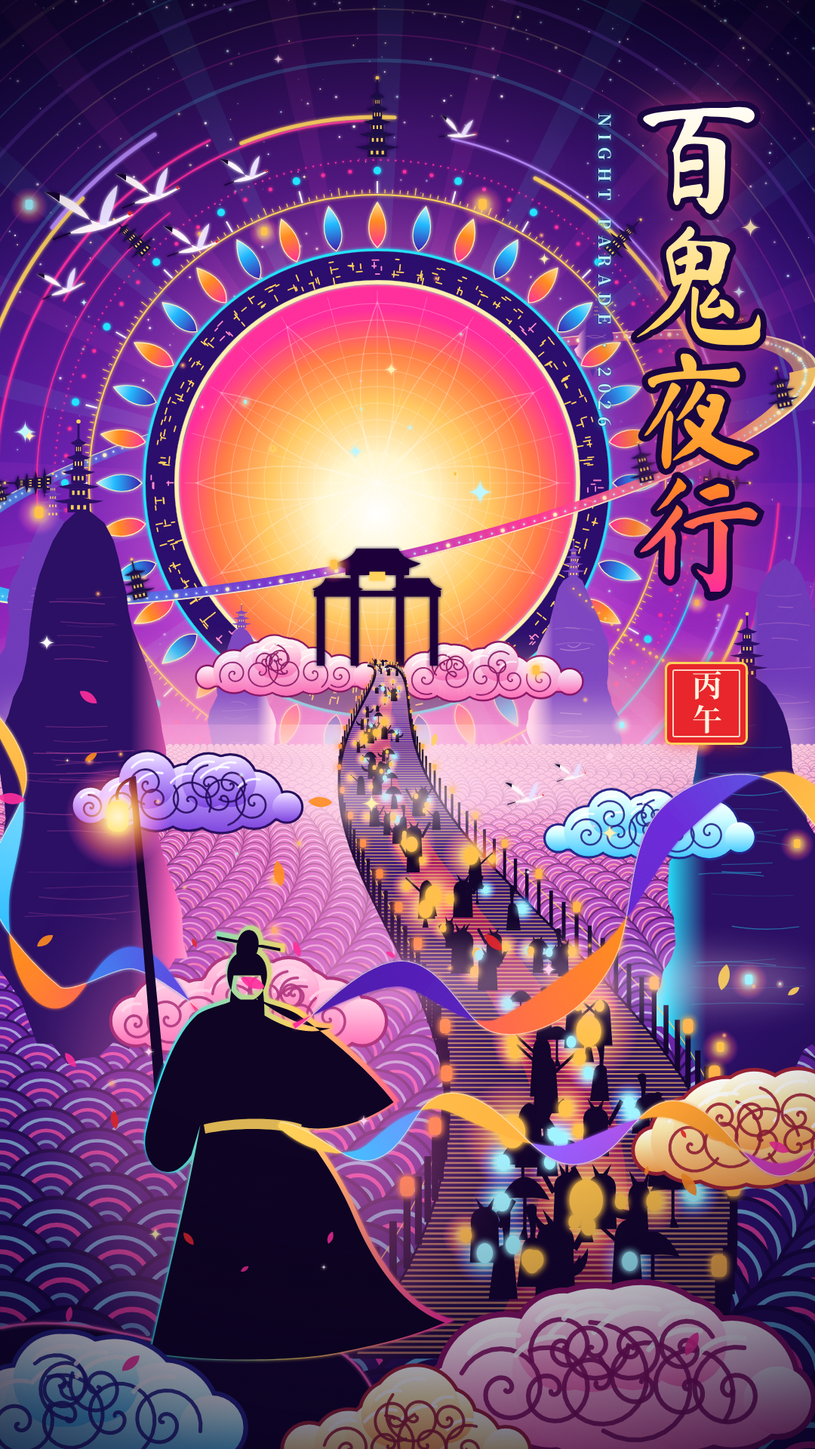
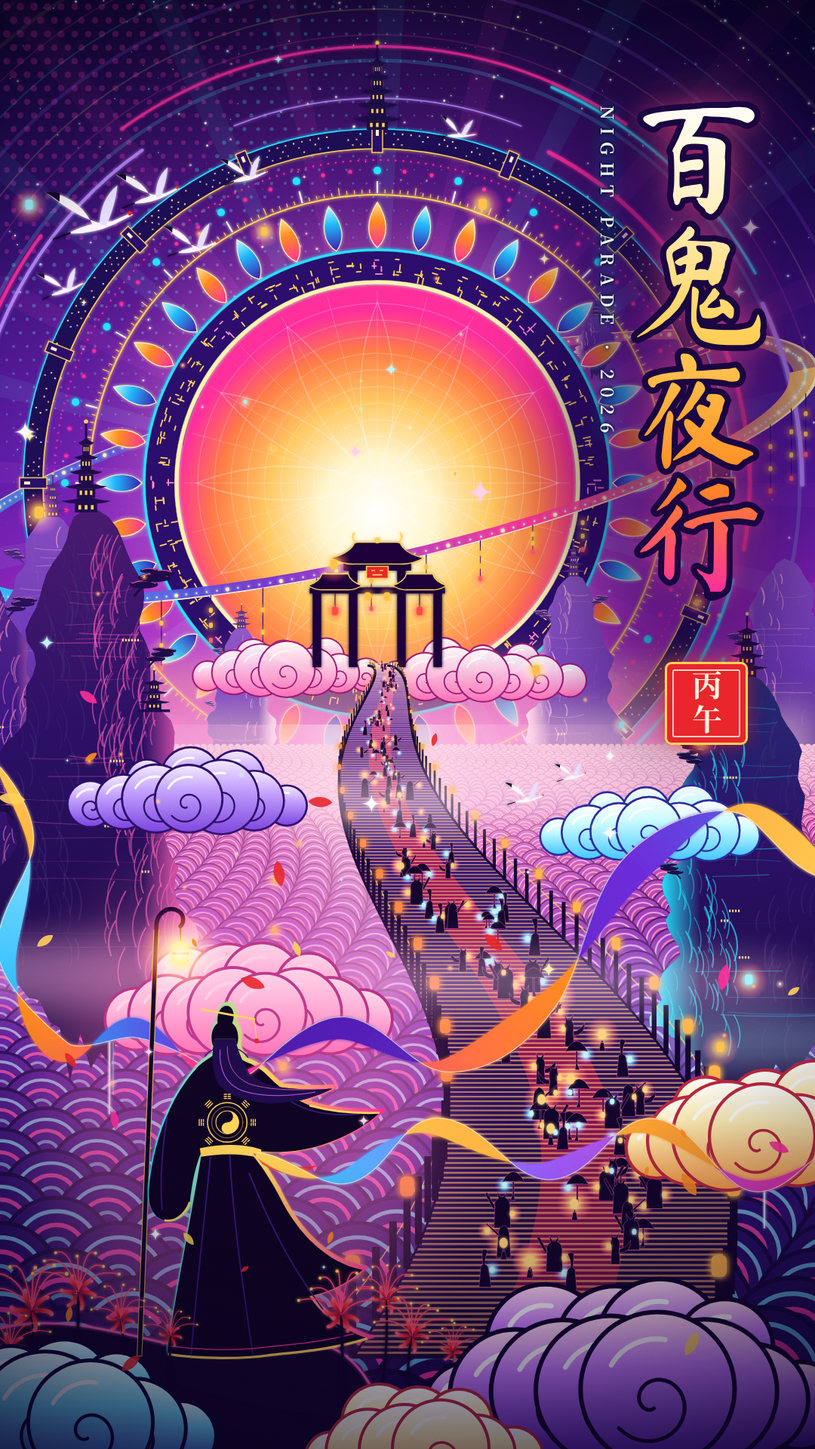
Style frame A: xianxia megastructure × hyper-colour (final)
Claude-Session: https://claude.ai/code/session_01V7Ed6gmCF8RWpr18cPyGXr

diff --git a/styleframes/a_xianxia/frame.html b/styleframes/a_xianxia/frame.html
@@ -16,8 +16,8 @@ html,body{margin:0;padding:0;width:1080px;height:1920px;overflow:hidden;backgrou
   text-shadow:0 0 30px rgba(255,46,154,.85),0 0 70px rgba(255,138,31,.55),0 0 120px rgba(107,43,217,.7)}
 .title.front{background:linear-gradient(180deg,#FFFFFF 0%,#FFF1C2 22%,#FFD25A 48%,#FF8A1F 78%,#FF2E9A 100%);
   -webkit-background-clip:text;background-clip:text;color:transparent}
-.latin{position:absolute;right:262px;top:150px;writing-mode:vertical-rl;font-family:'Noto Serif SC',serif;font-weight:700;
-  font-size:22px;letter-spacing:.42em;color:#BFF7FF;text-shadow:0 0 10px rgba(34,228,255,.9),0 0 2px #0B0326}
+.latin{position:absolute;right:258px;top:140px;writing-mode:vertical-rl;font-family:"Noto Serif SC",serif;font-weight:700;
+  font-size:23px;letter-spacing:.42em;color:#E9FDFF;text-shadow:0 0 2px #0B0326,0 0 5px #0B0326,0 0 9px #1A0640,0 0 18px rgba(34,228,255,.85)}
 .seal{position:absolute;right:92px;top:880px;width:104px;height:104px;background:#E8262B;border-radius:6px;
   box-shadow:0 0 0 3px #FFD25A,0 0 24px rgba(232,38,43,.8);display:grid;grid-template-columns:1fr;place-items:center;
   font-family:'Noto Serif SC',serif;font-weight:700;color:#FFF3E0;font-size:40px;line-height:1;writing-mode:vertical-rl;
@@ -94,6 +94,8 @@ const CLOUDS={
   cyan:['#FFFFFF','#C9FBFF','#45C8FF','#2B2A9E'],
   gold:['#FFFFFF','#FFF0B5','#FFA24A','#B8283E'],
   violet:['#F3E8FF','#C6A4FF','#7A45E0','#2A0E6A'],
+  deep:['#FFD6F0','#C77DFF','#4E1AA6','#12042A'],
+  deepc:['#E6FFFF','#6FE0FF','#2B3BB0','#0E0530'],
 };
 for(const k in CLOUDS){const c=CLOUDS[k];defs+=`<linearGradient id="cl_${k}" x1="0" y1="0" x2="0" y2="1"><stop offset="0" stop-color="${c[0]}"/><stop offset=".35" stop-color="${c[1]}"/><stop offset="1" stop-color="${c[2]}"/></linearGradient>`;}
 
@@ -108,6 +110,10 @@ add(`<rect width="1080" height="1920" fill="url(#sky)"/>`);
  add(`<g style="mix-blend-mode:screen">${s}</g>`);}
 // stars
 {let s='';for(let i=0;i<360;i++){const x=R(0,W),y=Math.pow(rnd(),1.6)*900;const r=R(.4,1.8);s+=`<circle cx="${f(x)}" cy="${f(y)}" r="${f(r)}" fill="${pick(['#FFFFFF','#BFF7FF','#FFE3F2','#FFF1B0'])}" opacity="${f(R(.35,1))}"/>`;}add(`<g filter="url(#glowS)">${s}</g>`);}
+// halftone print texture, top-left corner
+{let s='';const step=18;for(let y=step/2;y<760;y+=step)for(let x=step/2;x<640;x+=step){const xx=x+((y/step|0)%2)*step/2;const d=Math.hypot(xx,y)/760;const r=(1-d)*5.2;if(r<.4)continue;
+  s+=`<circle cx="${f(xx)}" cy="${f(y)}" r="${f(r)}" fill="${d<.45?'#FF2E9A':'#22E4FF'}"/>`;}
+ add(`<g opacity=".28" style="mix-blend-mode:screen">${s}</g>`);}
 // halo
 add(`<circle cx="${CX}" cy="${CY}" r="900" fill="url(#halo)" style="mix-blend-mode:screen"/>`);
 
@@ -124,10 +130,16 @@ function orbitDetails(half){
   const {cx,cy,rx,ry,rot}=ORB;let s='';const n=120;
   for(let i=0;i<n;i++){const t=(half=='back'?Math.PI:0)+(i+.5)/n*Math.PI;const x=cx+(rx-18)*Math.cos(t),y=cy+(ry-6)*Math.sin(t);
     s+=`<circle cx="${f(x)}" cy="${f(y)}" r="${i%5==0?2.6:1.3}" fill="${i%5==0?'#FFF4C0':'#BFF7FF'}"/>`;}
-  // pavilions riding the ring
-  const towers=half=='back'?[1.18,1.42,1.62,1.84]:[0.12,0.3,0.7,0.88];
-  for(const tt of towers){const t=tt*Math.PI;const x=cx+(rx-14)*Math.cos(t),y=cy+(ry-4)*Math.sin(t);s+=pagoda(x,y-2,half=='back'?22:30,'#1B0844','#FFD25A',3);}
   return `<g transform="rotate(${rot} ${cx} ${cy})" filter="url(#glowS)">${s}</g>`;
+}
+function orbitPoint(t,inset=0){const {cx,cy,rx,ry,rot}=ORB;const x=cx+(rx-inset)*Math.cos(t),y=cy+(ry-inset*ry/rx)*Math.sin(t);const a=rot*Math.PI/180;
+  return [cx+(x-cx)*Math.cos(a)-(y-cy)*Math.sin(a),cy+(x-cx)*Math.sin(a)+(y-cy)*Math.cos(a)];}
+function orbitLanterns(){ // strings of lanterns hanging plumb from the front orbit
+  let s='',g='';const rr=mulberry32(808);
+  for(let i=0;i<22;i++){const t=.08*Math.PI+i/21*.84*Math.PI;const [x,y]=orbitPoint(t,6);if(x>820&&x<1020)continue;const len=30+rr()*70;
+    s+=`<line x1="${f(x)}" y1="${f(y)}" x2="${f(x)}" y2="${f(y+len)}" stroke="#2A0B6A" stroke-width="1.2"/>`;
+    for(let k=1;k<=3;k++){const yy=y+len*k/3;g+=`<rect x="${f(x-2.6)}" y="${f(yy-3.4)}" width="5.2" height="6.8" rx="2" fill="${k==3?'#FF5A6A':'#FFC14A'}"/>`;}}
+  return `<g>${s}</g><g filter="url(#glow)">${g}</g>`;
 }
 function pagoda(x,y,s,fill,light,tiers=4){
   let o='',yy=y;
@@ -145,22 +157,50 @@ add(orbitArc('back',4,'#FFF4C0','opacity=".7"'));
 add(orbitDetails('back'));
 
 // small far islands behind the ring
+function pine(x,y,s,lean,fill,rimc){ // stylised Chinese pine clinging to a ledge
+  let o=`<path d="M${f(x)},${f(y)}Q${f(x+lean*s*.4)},${f(y-s*.5)} ${f(x+lean*s*.9)},${f(y-s*.75)}" stroke="${fill}" stroke-width="${f(s*.09)}" fill="none" stroke-linecap="round"/>`;
+  const pads=[[.35,-.42,.55],[.75,-.68,.62],[1.05,-.86,.46],[.55,-.95,.34]];
+  for(const p of pads){const cx=x+lean*s*p[0],cy=y+s*p[1],rx=s*p[2],ry=s*p[2]*.28;
+    o+=`<ellipse cx="${f(cx)}" cy="${f(cy)}" rx="${f(rx)}" ry="${f(ry)}" fill="${fill}"/><path d="M${f(cx-rx*.85)},${f(cy-ry*.3)}Q${f(cx)},${f(cy-ry*1.5)} ${f(cx+rx*.85)},${f(cy-ry*.3)}" stroke="${rimc}" stroke-width="${f(Math.max(.8,s*.035))}" fill="none" opacity=".9"/>`;}
+  return o;
+}
+let ISL=0;
 function island(x,y,w,h,fill,rimc,seed,opts={}){
-  const r2=mulberry32(seed);const n=26;const left=[],right=[];
-  for(let i=0;i<=n;i++){const t=i/n;const yy=y-h*t;const base=w/2*Math.pow(Math.max(0,1-Math.pow(t,2.3)),.55)*(.78+.22*(1-t));
-    left.push([x-base*(1+.10*Math.sin(t*17+seed)+.06*(r2()-.5)),yy]);right.push([x+base*(1+.10*Math.cos(t*13+seed)+.06*(r2()-.5)),yy]);}
-  const under=[];const m=12;const dh=h*(opts.under||.42);
-  for(let i=0;i<=m;i++){const t=i/m;const xx=x+w/2*(1-2*t)*.98;const yy=y+dh*Math.pow(Math.sin(Math.PI*t),1.3)*(.6+.4*r2())*(i%2?1:.75);under.push([xx,yy]);}
-  const pts=left.concat(right.reverse()).concat(under);
+  const r2=mulberry32(seed);const n=40;const left=[],right=[];
+  const prof=t=>w/2*Math.pow(Math.max(0,1-Math.pow(t,2.4)),.5)*(.74+.26*(1-t));
+  for(let i=0;i<=n;i++){const t=i/n;const yy=y-h*t;const b=prof(t);
+    const stepL=.11*Math.sin(t*19+seed)+.07*Math.sin(t*47+seed*2)+.05*(r2()-.5);
+    const stepR=.11*Math.cos(t*15+seed)+.07*Math.sin(t*41+seed)+.05*(r2()-.5);
+    left.push([x-b*(1+stepL),yy]);right.push([x+b*(1+stepR),yy]);}
+  const under=[];const m=18;const dh=h*(opts.under||.42);
+  for(let i=0;i<=m;i++){const t=i/m;const xx=x+w/2*(1-2*t)*.98;const yy=y+dh*Math.pow(Math.sin(Math.PI*t),1.2)*(.55+.45*r2())*(i%2?1:.7);under.push([xx,yy]);}
+  const pts=left.concat(right.slice().reverse()).concat(under);
   const d='M'+pts.map(p=>f(p[0])+','+f(p[1])).join('L')+'Z';
-  const gid='ig'+seed;
-  defs+=`<linearGradient id="${gid}" x1="${opts.rimLeft?1:0}" y1="0" x2="${opts.rimLeft?0:1}" y2="0"><stop offset="0" stop-color="${fill}"/><stop offset=".72" stop-color="${fill}"/><stop offset=".93" stop-color="${rimc}"/><stop offset="1" stop-color="${mix(rimc,'#FFFFFF',.5)}"/></linearGradient>`;
-  let o=`<path d="${d}" fill="url(#${gid})"/>`;
-  // strata lines
-  for(let k=0;k<Math.floor(h/24);k++){const t=r2()*.85;const yy=y-h*t;const half=w/2*Math.pow(Math.max(0,1-Math.pow(t,2.3)),.55)*.8;const x0=x-half*R(.2,.9),x1=x+half*R(.2,.9);
-    o+=`<path d="M${f(x0)},${f(yy)}Q${f((x0+x1)/2)},${f(yy+R(-6,8))} ${f(x1)},${f(yy+R(-4,4))}" stroke="${rimc}" stroke-width="${f(R(.6,1.6))}" fill="none" opacity="${f(R(.15,.4))}"/>`;}
-  if(opts.temple){o+=pagoda(x+(opts.templeDx||0),y-h*.985+ (opts.templeDy||0),opts.temple,fill,'#FFD25A',opts.tiers||4);}
-  if(opts.fall){o+=`<path d="M${f(x+w*.12)},${f(y+dh*.5)}L${f(x+w*.12)},${f(y+dh*.5+opts.fall)}" stroke="#E8FDFF" stroke-width="2.4" opacity=".75" filter="url(#glowS)"/>`;}
+  const id='is'+(ISL++);
+  const lit=opts.rimLeft?-1:1;
+  defs+=`<linearGradient id="${id}v" x1="0" y1="0" x2="0" y2="1"><stop offset="0" stop-color="${mix(fill,rimc,opts.topMix||.14)}"/><stop offset=".4" stop-color="${fill}"/><stop offset="1" stop-color="${mix(fill,'#05010F',.45)}"/></linearGradient>
+    <linearGradient id="${id}h" x1="${lit<0?1:0}" y1="0" x2="${lit<0?0:1}" y2="0"><stop offset="0" stop-color="${rimc}" stop-opacity="0"/><stop offset=".74" stop-color="${rimc}" stop-opacity="0"/><stop offset=".92" stop-color="${rimc}" stop-opacity=".9"/><stop offset="1" stop-color="${mix(rimc,'#FFFFFF',.55)}" stop-opacity="1"/></linearGradient>
+    <clipPath id="${id}c"><path d="${d}"/></clipPath>`;
+  let o=`<path d="${d}" fill="url(#${id}v)"/><path d="${d}" fill="url(#${id}h)"/>`;
+  // 皴 texture strokes, denser and brighter on the lit flank
+  let tex='';const nt=Math.floor(h*w/900)+20;
+  for(let k=0;k<nt;k++){const t=r2()*.95;const yy=y-h*t;const side=r2()<.62?lit:-lit;const b=prof(t);const px=x+side*b*(.15+r2()*.85);
+    const L=Math.max(8,h*.07)*(.6+r2());const bend=side*-L*.3;
+    tex+=`<path d="M${f(px)},${f(yy)}q${f(bend)},${f(L*.5)} ${f(bend*.4)},${f(L)}" stroke="${side==lit?rimc:mix(fill,'#FFFFFF',.18)}" stroke-width="${f(Math.max(.7,w*.005+r2()*1.1))}" fill="none" opacity="${f(side==lit?.3+r2()*.45:.14+r2()*.18)}" stroke-linecap="round"/>`;}
+  // horizontal strata
+  for(let k=0;k<Math.floor(h/30);k++){const t=r2()*.9;const yy=y-h*t;const b=prof(t);const x0=x-b*(.2+r2()*.8),x1=x+b*(.2+r2()*.8);
+    tex+=`<path d="M${f(x0)},${f(yy)}Q${f((x0+x1)/2)},${f(yy+(r2()-.3)*10)} ${f(x1)},${f(yy+(r2()-.5)*6)}" stroke="${rimc}" stroke-width="${f(.6+r2())}" fill="none" opacity="${f(.12+r2()*.25)}"/>`;}
+  // lit cliff windows
+  if(opts.windows){for(let k=0;k<opts.windows;k++){const t=.15+r2()*.6;const b=prof(t);const px=x+lit*b*(r2()*.8),py=y-h*t;
+    for(let j=0;j<3+Math.floor(r2()*4);j++)tex+=`<rect x="${f(px+j*4)}" y="${f(py)}" width="2.2" height="3.2" fill="#FFD98A"/>`;}}
+  o+=`<g clip-path="url(#${id}c)">${tex}</g>`;
+  // pines on ledges
+  if(opts.pines){for(let k=0;k<opts.pines;k++){const t=.25+r2()*.6;const side=r2()<.5?-1:1;const b=prof(t);
+    o+=pine(x+side*b*.92,y-h*t,Math.max(10,w*.12)*(.7+r2()*.5),side,mix(fill,'#05010F',.35),rimc);}}
+  if(opts.temple){o+=pagoda(x+(opts.templeDx||0),y-h*.985+(opts.templeDy||0),opts.temple,mix(fill,'#05010F',.3),'#FFD25A',opts.tiers||4);}
+  if(opts.side){const t=opts.side[0];const b=prof(t);const px=x+lit*b*.9,py=y-h*t;
+    o+=`<rect x="${f(px-opts.side[1]*.7)}" y="${f(py)}" width="${f(opts.side[1]*1.4)}" height="${f(opts.side[1]*.12)}" fill="${mix(fill,'#05010F',.3)}"/>`+pagoda(px,py,opts.side[1],mix(fill,'#05010F',.3),'#FFD25A',3);}
+  if(opts.fall){const fx=x+w*.1;o+=`<g filter="url(#glowS)"><path d="M${f(fx)},${f(y+dh*.45)}L${f(fx)},${f(y+dh*.45+opts.fall)}" stroke="#E8FDFF" stroke-width="2.6" opacity=".8"/><path d="M${f(fx+5)},${f(y+dh*.5)}L${f(fx+5)},${f(y+dh*.5+opts.fall*.7)}" stroke="#9FF4FF" stroke-width="1.2" opacity=".6"/></g>`;}
   return o;
 }
 add(island(250,560,70,70,'#5A2A9E','#FFB3D9',11,{under:.6,temple:16,tiers:3}));
@@ -208,13 +248,14 @@ add(`<circle cx="${CX}" cy="${CY}" r="262" fill="url(#core)"/>`);
 add(orbitArc('front',40,'url(#orbitBand)','opacity=".92"'));
 add(orbitArc('front',5,'#FFF4C0','opacity=".95"'));
 add(orbitDetails('front'));
+add(orbitLanterns());
 
 /* ---------------- far mountains ---------------- */
 add(`<rect x="0" y="880" width="1080" height="240" fill="url(#seaGlow)" opacity=".7" filter="url(#blur24)"/>`);
-add(island(70,1010,170,330,'#6E3AB8','#FFB3D9',21,{under:.25,temple:26}));
-add(island(320,1000,90,170,'#7C46C0','#FFC9E4',22,{under:.3,temple:18,tiers:3}));
-add(island(760,1010,120,250,'#7C46C0','#FFC9E4',23,{under:.3,temple:22,rimLeft:1}));
-add(island(1040,1020,150,280,'#6E3AB8','#FFB3D9',24,{under:.25,rimLeft:1}));
+add(island(70,1010,170,330,'#6E3AB8','#FFB3D9',21,{under:.25,temple:26,pines:3,windows:3}));
+add(island(320,1000,90,170,'#7C46C0','#FFC9E4',22,{under:.3,temple:18,tiers:3,pines:2}));
+add(island(760,1010,120,250,'#7C46C0','#FFC9E4',23,{under:.3,temple:22,rimLeft:1,pines:2,windows:2}));
+add(island(1040,1020,150,280,'#6E3AB8','#FFB3D9',24,{under:.25,rimLeft:1,pines:2}));
 
 /* ---------------- cloud sea (perspective seigaiha) ---------------- */
 {let s='';let y=990;let row=0;
@@ -237,21 +278,29 @@ add(island(1040,1020,150,280,'#6E3AB8','#FFB3D9',24,{under:.25,rimLeft:1}));
 
 /* ---------------- 祥云 cloud clusters ---------------- */
 function cloud(cx,cy,len,size,kind,opts={}){
-  const r2=mulberry32(Math.floor(cx*7+cy*13));const n=opts.n||7;const lobes=[];
-  for(let i=0;i<n;i++){const t=n==1?.5:i/(n-1);const r=size*(.45+.55*Math.pow(Math.sin(Math.PI*t),.8))*(.8+.35*r2());
-    lobes.push([cx+(t-.5)*len,cy-r*.55,r]);}
-  for(let i=0;i<Math.floor(n/2);i++){const t=.2+.6*r2();const r=size*(.5+.35*r2());lobes.push([cx+(t-.5)*len*.8,cy-size*.75-r*.3,r]);}
-  const outline=opts.outline||mix(CLOUDS[kind][3],'#000000',.15);const lw=opts.lw||Math.max(2,size*.07);
-  const bottom=`<rect x="${f(cx-len/2-size*.3)}" y="${f(cy-size*.35)}" width="${f(len+size*.6)}" height="${f(size*.45)}" rx="${f(size*.22)}"`;
+  const r2=mulberry32(Math.floor(cx*7+cy*13)+(opts.seed||0));const n=opts.n||7;const back=[],front=[];
+  for(let i=0;i<n;i++){const t=n==1?.5:i/(n-1);const r=size*(.42+.58*Math.pow(Math.sin(Math.PI*(.08+.84*t)),.9))*(.85+.25*r2());
+    front.push([cx+(t-.5)*len,cy-r*.5,r]);}
+  const nb=Math.max(1,Math.floor(n/2));
+  for(let i=0;i<nb;i++){const t=(i+.5)/nb;const r=size*(.55+.3*r2());back.push([cx+(t-.5)*len*.7+(r2()-.5)*size*.3,cy-size*.8-r*.35,r]);}
+  const outline=opts.outline||CLOUDS[kind][3];const lw=opts.lw||Math.max(1.6,size*.06);
   let o='';
-  o+=lobes.map(l=>`<circle cx="${f(l[0])}" cy="${f(l[1])}" r="${f(l[2]+lw)}" fill="${outline}"/>`).join('')+bottom+` fill="${outline}" transform="translate(0 ${f(lw)})"/>`;
-  o+=bottom+` fill="${CLOUDS[kind][2]}"/>`;
-  o+=lobes.map(l=>`<circle cx="${f(l[0])}" cy="${f(l[1])}" r="${f(l[2])}" fill="url(#cl_${kind})"/>`).join('');
-  // spirals
-  for(const l of lobes){if(l[2]<size*.5)continue;const dir=l[0]<cx?-1:1;let d='';const m=46;const turns=1.6;const a0=r2()*6.28;
-    for(let i=0;i<=m;i++){const t=i/m;const a=a0+dir*t*turns*Math.PI*2;const rr=l[2]*.72*t;d+=(i?'L':'M')+f(l[0]+rr*Math.cos(a))+','+f(l[1]+l[2]*.12+rr*Math.sin(a));}
-    o+=`<path d="${d}" fill="none" stroke="${outline}" stroke-width="${f(lw*.8)}" stroke-linecap="round" opacity=".9"/>`;
-    o+=`<path d="M${f(l[0]-l[2]*.55)},${f(l[1]-l[2]*.45)}A${f(l[2]*.75)},${f(l[2]*.75)} 0 0 1 ${f(l[0]+l[2]*.2)},${f(l[1]-l[2]*.72)}" fill="none" stroke="#FFFFFF" stroke-width="${f(lw*.9)}" stroke-linecap="round" opacity=".85"/>`;}
+  // flat base
+  const bx=cx-len/2-size*.25,bw=len+size*.5,by=cy-size*.32,bh=size*.4;
+  o+=`<rect x="${f(bx-lw)}" y="${f(by-lw)}" width="${f(bw+2*lw)}" height="${f(bh+2*lw)}" rx="${f(bh/2+lw)}" fill="${outline}"/><rect x="${f(bx)}" y="${f(by)}" width="${f(bw)}" height="${f(bh)}" rx="${f(bh/2)}" fill="${CLOUDS[kind][2]}"/>`;
+  const lobe=(l,curl)=>{const [x,y,r]=l;let q=`<circle cx="${f(x)}" cy="${f(y)}" r="${f(r+lw)}" fill="${outline}"/><circle cx="${f(x)}" cy="${f(y)}" r="${f(r)}" fill="url(#cl_${kind})"/>`;
+    // highlight sweep
+    q+=`<path d="M${f(x-r*.62)},${f(y-r*.32)}A${f(r*.7)},${f(r*.7)} 0 0 1 ${f(x+r*.1)},${f(y-r*.66)}" fill="none" stroke="#FFFFFF" stroke-width="${f(lw*1.1)}" stroke-linecap="round" opacity=".9"/>`;
+    if(curl){ // one clean ruyi curl per lobe
+      const dir=x<cx?1:-1;let d='';const m=40;const turns=1.15;const a0=Math.PI*.5;
+      const ox=x+dir*r*.05,oy=y+r*.18;
+      for(let i=0;i<=m;i++){const t=i/m;const a=a0-dir*t*turns*Math.PI*2;const rr=r*.08+r*.5*t;d+=(i?'L':'M')+f(ox+rr*Math.cos(a))+','+f(oy+rr*Math.sin(a));}
+      q+=`<path d="${d}" fill="none" stroke="${outline}" stroke-width="${f(lw*.85)}" stroke-linecap="round"/>`;}
+    return q;};
+  for(const l of back)o+=lobe(l,false);
+  // front lobes: draw from the ends inward so the centre lobe sits on top
+  const order=front.map((l,i)=>[l,Math.abs(i-(n-1)/2)]).sort((a,b)=>b[1]-a[1]);
+  for(const [l,dc] of order)o+=lobe(l,l[2]>size*.62);
   return `<g ${opts.attr||''}>${o}</g>`;
 }
 
@@ -264,22 +313,28 @@ function gate(x,y,s){ // y = base
   const ink='#1A0638';let o='';
   const px=[-.5,-.2,.2,.5];
   for(const p of px){const h=p*p>.1?.62:.82;o+=`<rect x="${f(x+p*s-s*.035)}" y="${f(y-s*h)}" width="${f(s*.07)}" height="${f(s*h)}" fill="${ink}"/>`;}
-  const roof=(cx,cy,w,h)=>`<path d="M${f(cx-w*.62)},${f(cy-h*.1)}Q${f(cx-w*.45)},${f(cy+h*.15)} ${f(cx-w*.3)},${f(cy+h*.12)}L${f(cx+w*.3)},${f(cy+h*.12)}Q${f(cx+w*.45)},${f(cy+h*.15)} ${f(cx+w*.62)},${f(cy-h*.1)}Q${f(cx+w*.35)},${f(cy-h*.3)} ${f(cx+w*.3)},${f(cy-h*.7)}L${f(cx-w*.3)},${f(cy-h*.7)}Q${f(cx-w*.35)},${f(cy-h*.3)} ${f(cx-w*.62)},${f(cy-h*.1)}Z" fill="${ink}"/>`;
+  const roof=(cx,cy,w,h)=>`<path d="M${f(cx-w*.62)},${f(cy-h*.1)}Q${f(cx-w*.45)},${f(cy+h*.15)} ${f(cx-w*.3)},${f(cy+h*.12)}L${f(cx+w*.3)},${f(cy+h*.12)}Q${f(cx+w*.45)},${f(cy+h*.15)} ${f(cx+w*.62)},${f(cy-h*.1)}Q${f(cx+w*.35)},${f(cy-h*.3)} ${f(cx+w*.3)},${f(cy-h*.7)}L${f(cx-w*.3)},${f(cy-h*.7)}Q${f(cx-w*.35)},${f(cy-h*.3)} ${f(cx-w*.62)},${f(cy-h*.1)}Z" fill="${ink}" stroke="#FFD25A" stroke-width="1.3" stroke-linejoin="round"/>`;
   o+=`<rect x="${f(x-s*.56)}" y="${f(y-s*.66)}" width="${f(s*1.12)}" height="${f(s*.05)}" fill="${ink}"/>`;
   o+=`<rect x="${f(x-s*.28)}" y="${f(y-s*.88)}" width="${f(s*.56)}" height="${f(s*.08)}" fill="${ink}"/>`;
   o+=roof(x,y-s*.88,s*.62,s*.22)+roof(x-s*.35,y-s*.66,s*.36,s*.16)+roof(x+s*.35,y-s*.66,s*.36,s*.16);
-  o+=`<rect x="${f(x-s*.07)}" y="${f(y-s*.83)}" width="${f(s*.14)}" height="${f(s*.08)}" fill="#FFD25A"/>`;
-  return `<g filter="url(#glowS)">${o}</g>`;
+  o+=`<rect x="${f(x-s*.09)}" y="${f(y-s*.835)}" width="${f(s*.18)}" height="${f(s*.1)}" fill="#E8262B" stroke="#FFD25A" stroke-width="1.5"/>`;
+  o+=`<path d="M${f(x-s*.05)},${f(y-s*.80)}h${f(s*.03)}M${f(x+s*.02)},${f(y-s*.80)}h${f(s*.03)}M${f(x-s*.04)},${f(y-s*.765)}h${f(s*.08)}" stroke="#FFD25A" stroke-width="1.6"/>`;
+  // ridge finials
+  for(const sx of [-1,1])o+=`<path d="M${f(x+sx*s*.18)},${f(y-s*1.03)}q${f(sx*s*.04)},${f(-s*.05)} ${f(sx*s*.01)},${f(-s*.08)}" stroke="#FFD25A" stroke-width="2" fill="none" stroke-linecap="round"/>`;
+  o+=`<circle cx="${f(x)}" cy="${f(y-s*1.05)}" r="${f(s*.025)}" fill="#FFD25A"/>`;
+  // lanterns hanging under the beam
+  let g='';for(const p of [-.35,.35,-.08,.08]){const lx=x+p*s,ly=y-s*(Math.abs(p)>.2?.5:.62);
+    o+=`<line x1="${f(lx)}" y1="${f(y-s*(Math.abs(p)>.2?.61:.66))}" x2="${f(lx)}" y2="${f(ly)}" stroke="${ink}" stroke-width="1"/>`;
+    g+=`<rect x="${f(lx-s*.025)}" y="${f(ly)}" width="${f(s*.05)}" height="${f(s*.07)}" rx="${f(s*.02)}" fill="${Math.abs(p)>.2?'#FF4A4A':'#FFC14A'}"/>`;}
+  return `<g filter="url(#glowS)">${o}</g><g filter="url(#glow)">${g}</g>`;
 }
-add(gate(CX,882,150));
+add(gate(CX,884,160));
 
 /* ---------------- mid floating mountains ---------------- */
-add(island(110,1270,250,600,'#2A0F62','#FF5FB8',31,{under:.32,temple:46,templeDx:-6,tiers:5,fall:260}));
-add(island(990,1360,230,470,'#2A0F62','#22E4FF',32,{under:.32,temple:38,rimLeft:1,fall:200}));
-// bridge of lanterns between the far right isle and the gate area (procession in the sky)
-{let s='';const x0=760,y0=780,x1=980,y1=905;for(let i=0;i<=26;i++){const t=i/26;const x=lerp(x0,x1,t),y=lerp(y0,y1,t)+Math.sin(Math.PI*t)*28;s+=`<circle cx="${f(x)}" cy="${f(y)}" r="${f(1.6+t*1.4)}" fill="#FFC861"/>`;}
- add(`<g filter="url(#glow)" opacity=".9">${s}</g>`);}
-
+add(island(-30,1180,200,430,'#3A1680','#FF8AC8',33,{under:.3,pines:3,windows:3}));
+add(island(120,1270,250,600,'#2A0F62','#FF5FB8',31,{under:.32,temple:46,templeDx:-6,tiers:5,fall:120,pines:6,windows:7,side:[.55,30]}));
+add(island(990,1360,230,470,'#2A0F62','#22E4FF',32,{under:.32,temple:38,rimLeft:1,fall:200,pines:5,windows:6}));
+add(`<ellipse cx="120" cy="1290" rx="230" ry="46" fill="#FFB3E0" opacity=".45" filter="url(#blur24)"/><ellipse cx="990" cy="1380" rx="200" ry="40" fill="#BFF7FF" opacity=".35" filter="url(#blur24)"/>`);
 /* ---------------- the endless stair ---------------- */
 const ST={
   y:s=>1800-918*(1-Math.pow(1-s,1.8)),
@@ -308,7 +363,7 @@ const ST={
 /* ---------------- yokai procession ---------------- */
 function yokai(type,x,y,h,face){ // feet at (x,y), height h, face=1 walking up-right
   const s=h/100;const ink='#12042A';let body='';
-  const T=(d)=>`<path d="${d}" fill="${ink}" transform="translate(${f(x)} ${f(y)}) scale(${f(s*face)} ${f(s)})"/>`;
+  const T=(d)=>`<path d="${d}" fill="${ink}" stroke="#FF6FB8" stroke-opacity=".55" stroke-width=".7" vector-effect="non-scaling-stroke" transform="translate(${f(x)} ${f(y)}) scale(${f(s*face)} ${f(s)})"/>`;
   let lx=0,ly=-70;
   switch(type){
     case 0: // hooded pilgrim with lantern pole
@@ -324,16 +379,16 @@ function yokai(type,x,y,h,face){ // feet at (x,y), height h, face=1 walking up-r
     default: // long-neck lady
       body=T('M-16,0L-10,-46Q-8,-58 0,-60Q2,-80 -8,-96Q4,-104 8,-96Q8,-80 6,-60Q14,-56 12,-46L16,0Z'); lx=-20;ly=-50;
   }
-  const lr=type==4?h*.24:h*.11;
-  return {body,glow:`<ellipse cx="${f(x+lx*s*face)}" cy="${f(y+ly*s)}" rx="${f(lr*.8)}" ry="${f(lr)}" fill="${type==1||type==5?'#9FF4FF':'#FFC14A'}"/>`,halo:`<circle cx="${f(x+lx*s*face)}" cy="${f(y+ly*s)}" r="${f(lr*3.2)}" fill="url(#${type==1||type==5?'lanternCyan':'lantern'})" opacity=".8"/>`};
+  const lr=type==4?h*.15:h*.085;const cy=type==1||type==5;
+  return {body,glow:`<ellipse cx="${f(x+lx*s*face)}" cy="${f(y+ly*s)}" rx="${f(lr*.8)}" ry="${f(lr)}" fill="${cy?'#BFF7FF':'#FFD27A'}"/>`,halo:`<circle cx="${f(x+lx*s*face)}" cy="${f(y+ly*s)}" r="${f(lr*3.4)}" fill="url(#${cy?'lanternCyan':'lantern'})" opacity=".75"/>`};
 }
 {let bodies='',glows='',halos='';const rr=mulberry32(4242);
  const marchers=[];
- for(let i=0;i<120;i++){const s=Math.pow(rr(),1.25)*.96+.03;marchers.push(s);}
+ for(let i=0;i<150;i++){const s=Math.pow(rr(),1.1)*.95+.045;marchers.push(s);}
  marchers.sort((a,b)=>b-a); // far first
- for(const s of marchers){const w=ST.w(s);const x=ST.x(s)+(rr()-.5)*w*.62,y=ST.y(s)-w*.03;const h=Math.max(3,w*(.2+rr()*.08));
-   const yk=yokai(Math.floor(rr()*6),x,y,h,rr()<.5?1:-1);bodies+=yk.body;glows+=yk.glow;halos+=yk.halo;}
- add(`<g style="mix-blend-mode:screen">${halos}</g><g>${bodies}</g><g filter="url(#glow)">${glows}</g>`);
+ for(const s of marchers){const w=ST.w(s);const x=ST.x(s)+(rr()-.5)*w*.5,y=ST.y(s)-w*.02;const h=Math.min(46,Math.max(3,w*(.15+rr()*.05)));
+   const yk=yokai(Math.floor(rr()*6),x,y,h,rr()<.6?1:-1);bodies+=yk.body;glows+=yk.glow;halos+=yk.halo;}
+ add(`<g style="mix-blend-mode:screen">${halos}</g><g>${bodies}</g><g filter="url(#glowS)">${glows}</g>`);
 }
 
 /* ---------------- mid clouds & mist around the stair ---------------- */
@@ -383,41 +438,76 @@ function ribbon(P,W0,twist,phase,front,back){
 }
 
 /* ---------------- foreground: rock, figure, ribbons ---------------- */
-const FX=330,FY=1790; // figure feet
+const FX=300,FY=1792; // figure feet
 // glow behind figure
 add(`<ellipse cx="${FX+20}" cy="${FY-300}" rx="260" ry="340" fill="#FF7AB8" opacity=".35" filter="url(#blur50)"/>`);
 // back ribbons (behind figure)
-add(`<g filter="url(#glowS)">${ribbon([[FX-40,FY-420],[FX-150,FY-520],[FX-260,FY-470],[FX-330,FY-600],[FX-300,FY-760],[FX-380,FY-900]],34,2.2,0.4,
+add(`<g filter="url(#glowS)">${ribbon([[FX-30,FY-372],[FX-120,FY-430],[FX-220,FY-400],[FX-290,FY-520],[FX-260,FY-680],[FX-330,FY-820]],30,2.2,0.4,
   [[0,'#FF2E9A'],[.5,'#FF8A1F'],[1,'#FFD25A']],[[0,'#6B2BD9'],[.5,'#22B8FF'],[1,'#BFF7FF']])}</g>`);
 // rock
 add(`<path d="M0,1760C80,1740 170,1770 230,1782C290,1772 360,1768 440,1786C470,1800 500,1830 520,1920L0,1920Z" fill="#12042A"/>
      <path d="M0,1760C80,1740 170,1770 230,1782C290,1772 360,1768 440,1786C470,1800 500,1830 520,1920" fill="none" stroke="#FF5FB8" stroke-width="3" opacity=".9" filter="url(#glowS)"/>`);
-// figure
-{const P=`M-17,-468C-30,-460 -55,-458 -68,-446C-96,-420 -118,-362 -134,-292C-140,-262 -124,-236 -100,-240C-90,-242 -80,-252 -74,-262L-62,-302C-80,-200 -108,-92 -128,0C-60,12 60,12 120,0C160,-8 210,-18 262,-40C212,-58 172,-108 142,-178C122,-228 92,-268 70,-300C100,-292 150,-300 194,-332C172,-362 122,-410 70,-446C55,-458 30,-460 17,-468Z`;
- const head=`M0,-532C20,-532 28,-514 26,-496C24,-478 12,-466 0,-466C-12,-466 -24,-478 -26,-496C-28,-514 -20,-532 0,-532Z`;
- const bun=`M-14,-528C-16,-548 -6,-562 4,-560C16,-558 18,-540 12,-528Z M-40,-552L44,-536L44,-532L-40,-548Z`;
- const hair=`M-18,-500C-28,-450 -26,-380 -10,-330L12,-334C22,-380 28,-450 18,-500Z M12,-470C40,-450 70,-430 110,-430C80,-420 50,-430 18,-450Z`;
- const staff=`M-120,-280L-104,-282L-150,-760L-158,-758Z`;
+// figure — an immortal seen from behind, robes and hair streaming in the wind
+{const P=`M-12,-500C-22,-492 -40,-484 -50,-470C-66,-452 -80,-430 -92,-404C-110,-366 -122,-320 -126,-272C-128,-246 -118,-226 -100,-222C-84,-218 -66,-230 -58,-252C-54,-290 -46,-320 -38,-336C-50,-260 -72,-150 -90,-40C-94,-20 -96,-8 -94,0C-40,8 30,8 70,2C120,-4 170,-6 236,-26C196,-40 160,-64 140,-96C176,-104 204,-118 228,-140C170,-150 120,-200 90,-262C70,-300 50,-326 38,-338C70,-334 120,-330 176,-352C210,-366 236,-380 256,-400C210,-398 170,-404 140,-412C110,-424 84,-448 70,-462C60,-472 46,-480 40,-482C26,-488 18,-494 12,-500Z`;
+ const head=`M0,-552C14,-552 22,-540 22,-524C22,-508 12,-496 0,-496C-12,-496 -22,-508 -22,-524C-22,-540 -14,-552 0,-552Z`;
+ const bun=`M-12,-548C-14,-566 -6,-578 4,-577C15,-575 17,-560 12,-548Z`;
+ const hair=`M-17,-522C-24,-490 -20,-456 -6,-442C14,-424 50,-414 90,-416C122,-418 152,-426 178,-440C146,-438 114,-438 82,-444C50,-450 28,-474 17,-522Z`;
+ const staff=`M-148,6L-140,6L-112,-700L-120,-700Z`;
  const all=P+head+bun+hair;
- add(`<g transform="translate(${FX} ${FY})">
-   <path d="${staff}" fill="#12042A"/>
+ const folds=['M-24,-326C-34,-220 -46,-120 -56,0','M8,-330C14,-220 30,-110 46,-2','M40,-300C76,-210 116,-130 186,-44','M-96,-392C-104,-340 -108,-290 -104,-240','M110,-418C140,-400 180,-394 222,-398'];
+ add(`<g transform="translate(${FX} ${FY}) scale(.8)">
+   <path d="${staff}" fill="#12042A" stroke="#FFD25A" stroke-width="1.5" stroke-opacity=".7"/>
+   <path d="M-116,-700C-118,-728 -96,-742 -78,-730C-70,-724 -70,-712 -76,-706" stroke="#12042A" stroke-width="7" fill="none" stroke-linecap="round"/>
+   <path d="M-76,-706L-76,-680" stroke="#12042A" stroke-width="2"/>
    <path d="${all}" fill="none" stroke="url(#figRim)" stroke-width="7" filter="url(#glowS)"/>
-   <path d="${all}" fill="#0E0322" transform="translate(-2.5 2.5)"/>
-   <path d="M-60,-300C-20,-310 40,-310 70,-300L66,-288C30,-296 -20,-296 -58,-288Z" fill="#FFD25A" opacity=".85"/>
-   <path d="M-150,-760C-170,-756 -178,-740 -174,-730" stroke="#12042A" stroke-width="4" fill="none"/>
-   <rect x="-188" y="-728" width="28" height="40" rx="12" fill="#FFB347" filter="url(#glow)"/>
-   <circle cx="-174" cy="-708" r="70" fill="url(#lantern)" opacity=".9" style="mix-blend-mode:screen"/>
+   <path d="${all}" fill="#0E0322" transform="translate(-2.5 3)"/>
+   ${folds.map(d=>`<path d="${d}" stroke="#3A1678" stroke-width="2.4" fill="none" stroke-linecap="round" transform="translate(-2.5 3)"/>`).join('')}
+   <path d="M-36,-490C-20,-512 20,-512 36,-488" stroke="#3A1678" stroke-width="2" fill="none"/>
+   <g transform="translate(-2.5 3)">
+     <path d="M-94,0C-40,8 30,8 70,2C120,-4 170,-6 236,-26" stroke="#FFD25A" stroke-width="4" fill="none"/>
+     <path d="M-91,-14C-40,-6 30,-6 70,-12C118,-17 160,-20 214,-34" stroke="#FF2E9A" stroke-width="2" fill="none" opacity=".9"/>
+     <path d="M256,-400C210,-398 170,-404 140,-412" stroke="#FFD25A" stroke-width="3.5" fill="none"/>
+     <path d="M-100,-222C-84,-218 -66,-230 -58,-252" stroke="#FFD25A" stroke-width="3.5" fill="none"/>
+     <g transform="translate(4 -384) scale(.86)" stroke="#FFD25A" fill="none" stroke-linecap="round">
+       <circle r="38" stroke-width="2.2"/><circle r="30" stroke-width="1" opacity=".8"/>
+       ${[0,1,2,3,4,5,6,7].map(k=>{const bits=[k&1,k&2,k&4];return `<g transform="rotate(${k*45}) translate(0 -46)">`+bits.map((b,j)=>b?`<line x1="-6" x2="6" y1="${-j*4}" y2="${-j*4}" stroke-width="2"/>`:`<line x1="-6" x2="-1.5" y1="${-j*4}" y2="${-j*4}" stroke-width="2"/><line x1="1.5" x2="6" y1="${-j*4}" y2="${-j*4}" stroke-width="2"/>`).join('')+'</g>';}).join('')}
+       <path d="M0,-22A22,22 0 0 1 0,22A11,11 0 0 1 0,0A11,11 0 0 0 0,-22Z" fill="#FFD25A" stroke="none"/><circle r="22" stroke-width="1.6"/>
+     </g>
+     <path d="${hair}" fill="#1F0A4A"/>
+     <path d="M-8,-505C-10,-470 2,-446 30,-436C62,-426 100,-426 150,-434" stroke="#B05AE0" stroke-width="1.6" fill="none" opacity=".85"/>
+     <path d="M4,-510C4,-480 14,-460 40,-448C70,-438 110,-436 168,-440" stroke="#FF6FB8" stroke-width="1.2" fill="none" opacity=".75"/>
+   </g>
+   <path d="M-44,-338C-10,-346 30,-346 58,-336L56,-322C26,-330 -10,-330 -42,-324Z" fill="#FFD25A"/>
+   <path d="M44,-330C80,-318 110,-300 150,-310C120,-290 90,-292 60,-312Z" fill="#E8262B"/>
+   <path d="M-40,-568L46,-552" stroke="#FFD25A" stroke-width="3.5" stroke-linecap="round"/>
+   <path d="M46,-552L50,-520" stroke="#FFD25A" stroke-width="1.5"/><circle cx="50" cy="-516" r="4" fill="#E8262B"/>
+   <rect x="-90" y="-680" width="28" height="40" rx="12" fill="#FFC861" filter="url(#glow)"/>
+   <rect x="-90" y="-662" width="28" height="3" fill="#E8262B"/>
+   <circle cx="-76" cy="-660" r="80" fill="url(#lantern)" opacity=".95" style="mix-blend-mode:screen"/>
  </g>`);}
 // front ribbons
-add(`<g filter="url(#glowS)">${ribbon([[FX+60,FY-430],[FX+200,FY-500],[FX+330,FY-430],[FX+470,FY-520],[FX+560,FY-700],[FX+700,FY-760],[FX+820,FY-660],[FX+900,FY-720],[1120,FY-860]],46,2.6,1.1,
+add(`<g filter="url(#glowS)">${ribbon([[FX+30,FY-372],[FX+150,FY-430],[FX+290,FY-380],[FX+430,FY-470],[FX+540,FY-640],[FX+680,FY-720],[FX+800,FY-640],[FX+890,FY-700],[1120,FY-840]],40,2.6,1.1,
   [[0,'#FF2E9A'],[.4,'#FF8A1F'],[.8,'#FFD25A'],[1,'#FFF4C0']],[[0,'#4A1AA8'],[.5,'#6B2BD9'],[1,'#22E4FF']])}</g>`);
-add(`<g filter="url(#glowS)">${ribbon([[FX+40,FY-300],[FX+150,FY-260],[FX+260,FY-330],[FX+420,FY-260],[FX+560,FY-320],[FX+700,FY-240],[1110,FY-300]],30,3.1,2.2,
+add(`<g filter="url(#glowS)">${ribbon([[FX+40,FY-262],[FX+150,FY-230],[FX+270,FY-300],[FX+420,FY-240],[FX+560,FY-300],[FX+700,FY-220],[1110,FY-280]],26,3.1,2.2,
   [[0,'#22E4FF'],[.5,'#9B5BFF'],[1,'#FF2E9A']],[[0,'#FFD25A'],[1,'#FF8A1F']])}</g>`);
 
+/* ---------------- red spider lilies 彼岸花 ---------------- */
+function lily(x,y,sz,seed){const r=mulberry32(seed);let o='';
+  o+=`<path d="M${f(x)},${f(y)}Q${f(x+(r()-.5)*sz*.6)},${f(y+sz*1.4)} ${f(x+(r()-.5)*sz*.4)},${f(y+sz*3)}" stroke="#12042A" stroke-width="${f(sz*.07)}" fill="none"/>`;
+  for(let k=0;k<7;k++){const a=-90+(k-3)*24+(r()-.5)*10;const ar=a*Math.PI/180;const L=sz*(.95+r()*.35);
+    const ex=x+Math.cos(ar)*L,ey=y+Math.sin(ar)*L*.85-sz*.1;const cx=x+Math.cos(ar)*L*.35,cy=y+Math.sin(ar)*L*.9-sz*.25;
+    o+=`<path d="M${f(x)},${f(y)}Q${f(cx)},${f(cy)} ${f(ex)},${f(ey)}" stroke="#FF4A6A" stroke-width="${f(Math.max(1,sz*.03))}" fill="none"/><circle cx="${f(ex)}" cy="${f(ey)}" r="${f(Math.max(1.2,sz*.04))}" fill="#FFD25A"/>`;}
+  for(let k=0;k<6;k++){const a=k*60+r()*20;const L=sz*.5;
+    o+=`<path transform="translate(${f(x)} ${f(y)}) rotate(${f(a)})" d="M0,0C${f(L*.3)},${f(-L*.16)} ${f(L*.7)},${f(-L*.2)} ${f(L*.95)},${f(-L*.02)}C${f(L*1.05)},${f(L*.12)} ${f(L*.88)},${f(L*.22)} ${f(L*.78)},${f(L*.08)}C${f(L*.6)},${f(L*.02)} ${f(L*.3)},${f(L*.1)} 0,0Z" fill="url(#lilyG)"/>`;}
+  return o;}
+defs+=`<linearGradient id="lilyG" x1="0" y1="0" x2="1" y2="0"><stop offset="0" stop-color="#8A0A2E"/><stop offset=".5" stop-color="#E8262B"/><stop offset="1" stop-color="#FF6A7A"/></linearGradient>`;
+{let o='';const spots=[[42,1736,60],[104,1712,50],[160,1748,40],[14,1786,44],[226,1770,32],[452,1742,52],[512,1722,40],[546,1770,46],[600,1790,34]];
+ spots.forEach((p,i)=>o+=lily(p[0],p[1],p[2],300+i));add(`<g filter="url(#glowS)">${o}</g>`);}
+
 /* ---------------- foreground clouds ---------------- */
-add(cloud(820,1880,420,110,'pink',{n:8}));
-add(cloud(120,1915,320,90,'cyan',{n:6}));
-add(cloud(540,1940,260,70,'gold',{n:6}));
+add(cloud(840,1890,440,104,'deep',{n:8,lw:6}));
+add(cloud(90,1925,300,84,'deepc',{n:6,lw:5}));
+add(cloud(560,1950,240,62,'gold',{n:6,lw:4}));
 
 /* ---------------- sparkles & falling petals ---------------- */
 {let s='';const rr=mulberry32(55);for(let i=0;i<34;i++){const x=rr()*W,y=rr()*1700;const r=2+Math.pow(rr(),3)*16;
@@ -428,6 +518,7 @@ add(cloud(540,1940,260,70,'gold',{n:6}));
  add(`<g>${p}</g>`);}
 
 /* ---------------- grade ---------------- */
+add(`<ellipse cx="905" cy="520" rx="170" ry="470" fill="#12042A" opacity=".42" filter="url(#blur50)"/>`);
 add(`<rect width="1080" height="1920" fill="url(#vign)"/>`);
 add(`<rect width="1080" height="1920" filter="url(#grain)" opacity=".16" style="mix-blend-mode:overlay"/>`);
 

diff --git a/styleframes/a_xianxia/notes.md b/styleframes/a_xianxia/notes.md
@@ -1,0 +1,9 @@
+# Style A 「仙境巨构 · 绚彩东方」— 百鬼夜行 style frame
+
+- **色板**：夜幕 #0B0326 / 靛 #1E0A55 / 紫 #6B2BD9 / 品红 #FF2E9A / 青 #22E4FF / 橘 #FF8A1F / 金 #FFD25A / 朱印 #E8262B / 云粉 #FFB3D9 / 光核奶白 #FFF6CF；规则：暗紫打底，中心金白光核，前景压深紫，青与橘只做点睛。
+- **字体**：标题「百鬼夜行」用 Ma Shan Zheng（马善政毛笔楷）竖排，金→橘→品红渐变，配深紫描边和外发光；英文「NIGHT PARADE · 2026」与印章「丙午」用 Noto Serif SC 700。
+- **关键母题**：同心巨环（光盘、篆纹带、莲瓣、刻度、城墙窗灯、斜轨环、悬灯）+ 牌楼天门；透视青海波云海；单旋祥云；浮空石峰（皴线、松、悬寺、飞瀑）；无尽天梯上的提灯妖怪剪影；背影仙人（八卦背纹、披帛、灯杖）；仙鹤、孔明灯、彼岸花、半调网点、放射光芒与同心波纹。
+- **构图逻辑**：光核+天门是唯一焦点，天梯 S 形引导视线，前景深色人物与深紫云做压角，形成近大远小的巨物尺度对比；文字收在右上，底部 300px 不放关键信息。
+- **镜头运动**：慢速推镜沿天梯上行（多层视差：前景云 > 人物 > 山峰 > 海 > 巨环）；巨环各圈层反向慢转，斜轨环绕行；青海波逐行起伏如潮；灯笼呼吸闪烁，披帛与发丝二次跟随。
+- **标志性转场**：形状匹配剪辑：仙人背上的八卦纹 → 推近化为天上巨环 → 穿过天门光核进入下一界（zoom-through），每次换场都穿过一道环门。
+- **其他转场**：穿云推进（祥云团擦过镜头遮挡换景）；图案变形（青海波 ↔ 莲瓣 ↔ 刻度环互相 morph）；披帛横扫做划像；光核白闪作颜色桥接。节奏上快剪妖怪特写与慢速巨构长镜交替。
